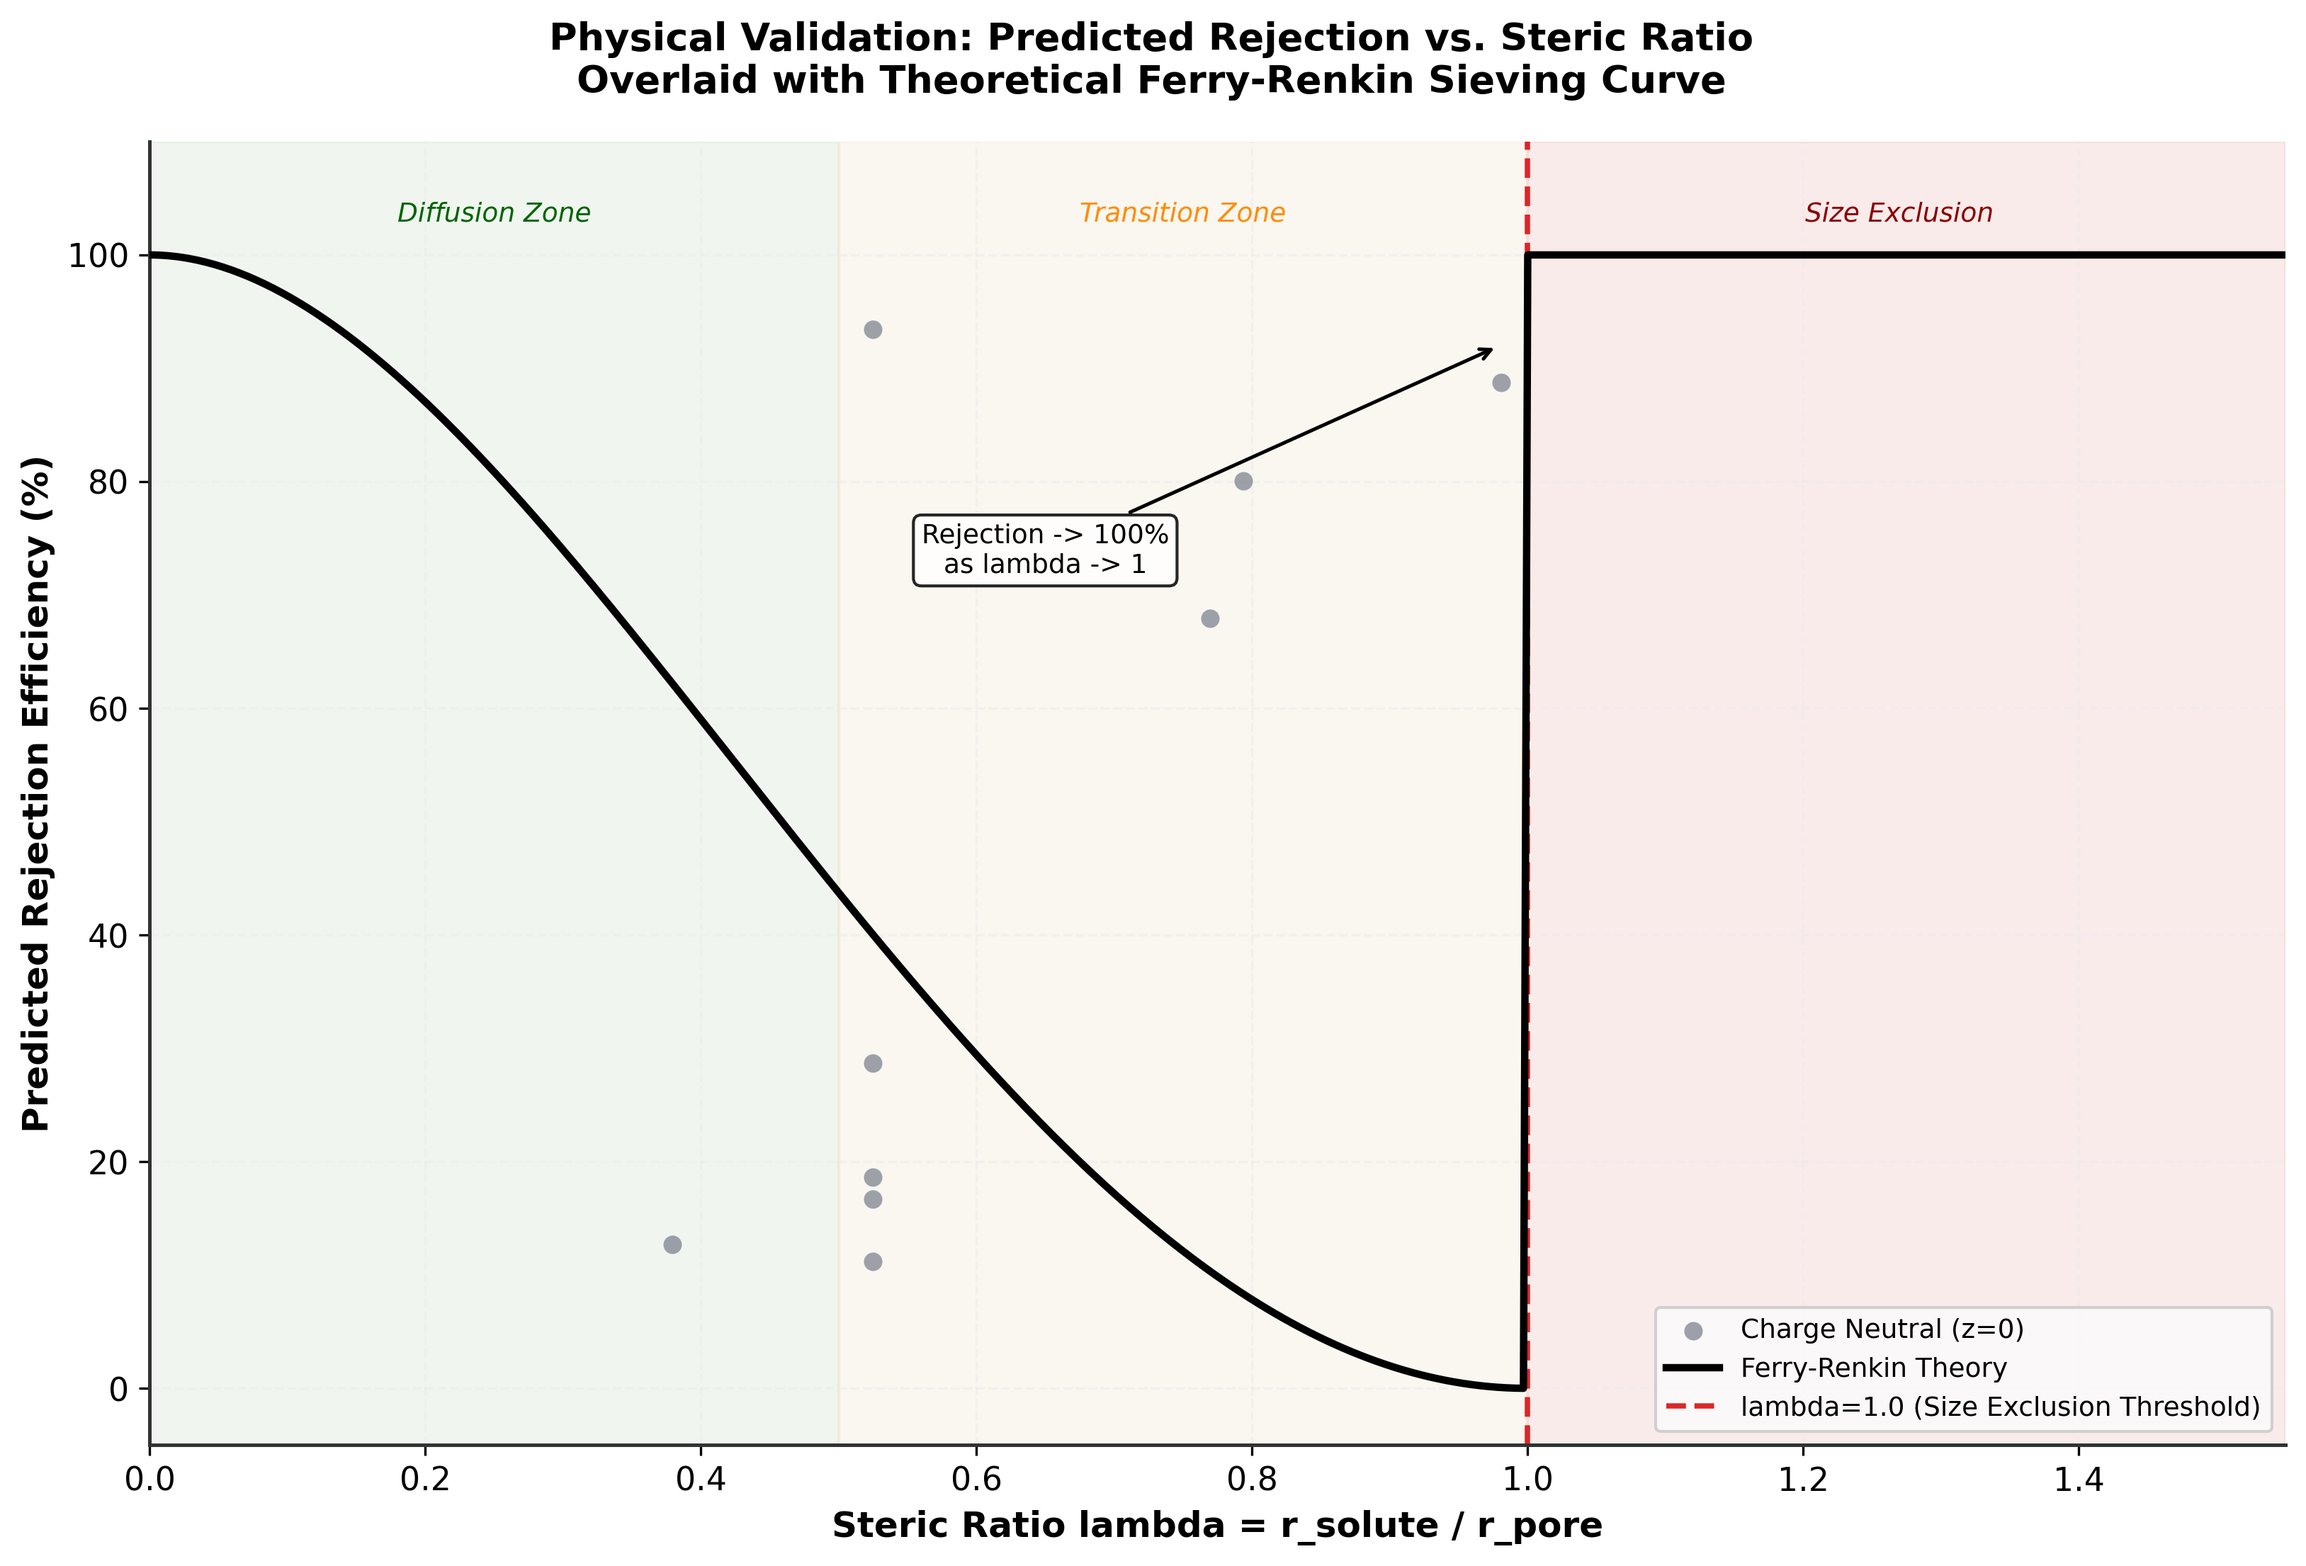
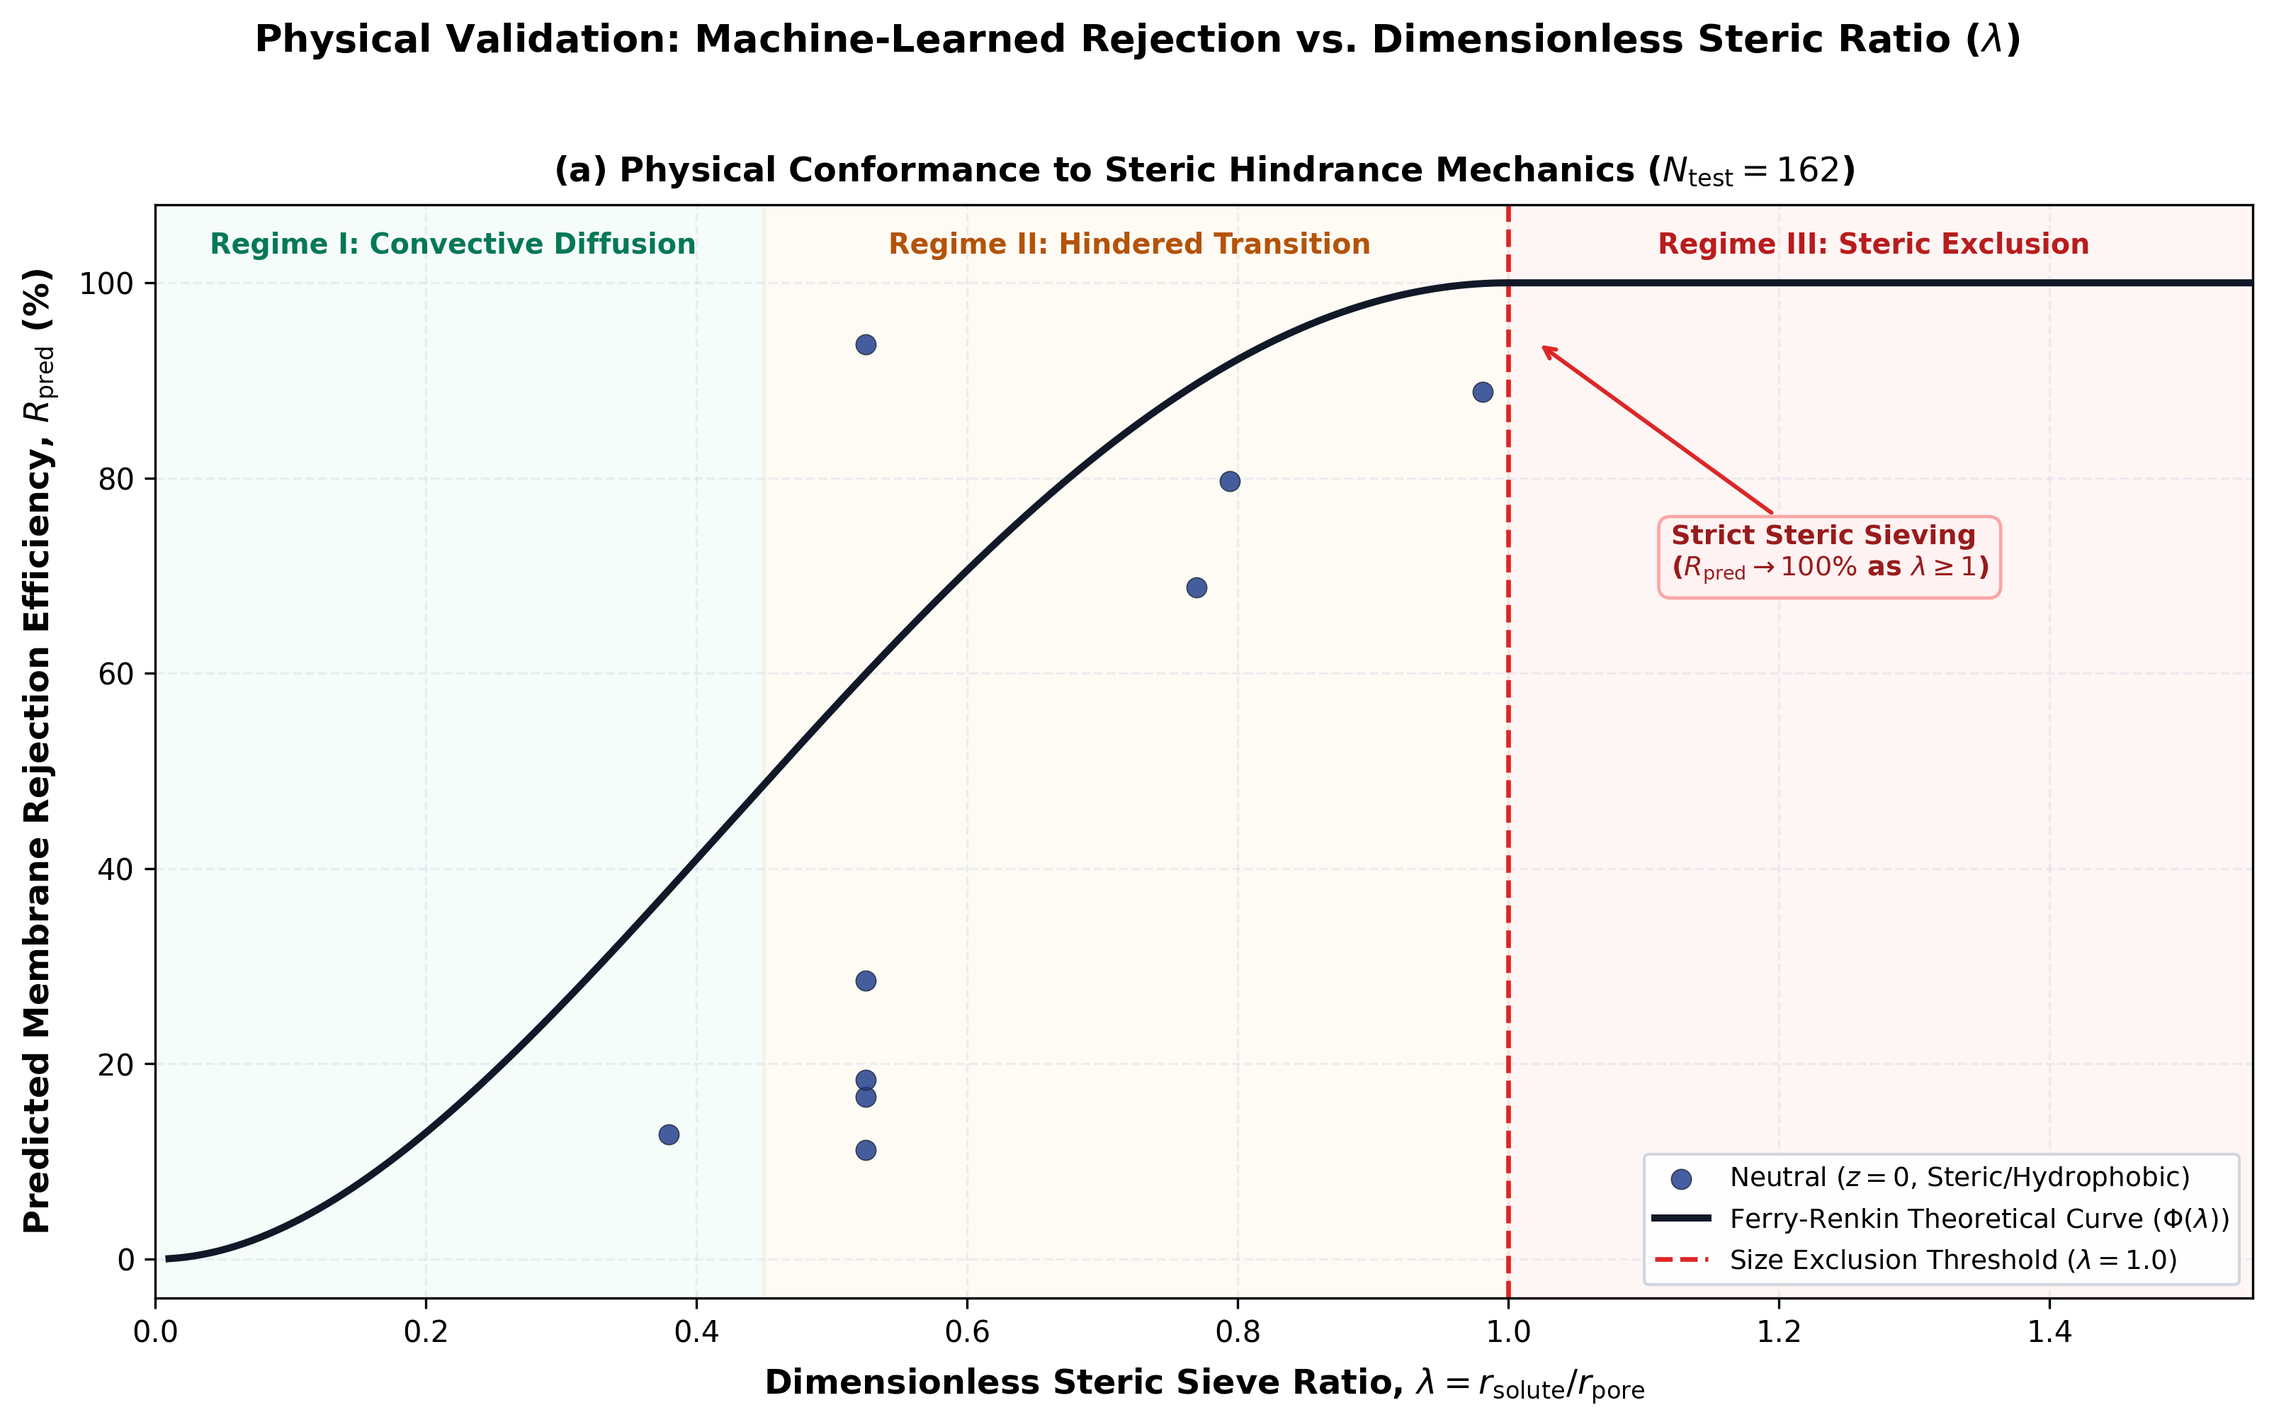
fix(fig8): Publication-grade steric physics validation with Ferry-Renkin sieving curve

diff --git a/src/generate_paper_figures.py b/src/generate_paper_figures.py
@@ -1034,54 +1034,71 @@ def generate_figure4():
 
 
 def generate_figure8(inf):
-    print("\n[Figure 8] Steric Exclusion Physics Validation ...")
+    print("\n[Figure 8] Steric Exclusion Physics Validation (Publication Grade) ...")
     steric = inf['steric']; preds = inf['gtx_preds']; charge = inf['charge']
 
-    lam_line = np.linspace(0, 1.55, 500)
+    lam_line = np.linspace(0.01, 1.55, 500)
     phi_line = np.where(
         lam_line < 1.0,
-        np.maximum(0, (1 - lam_line)**2 * (2 - (1 - lam_line)**2)) * 100,
-        100.0,
+        np.maximum(0, 1.0 - (1.0 - lam_line)**2 * (2.0 - (1.0 - lam_line)**2)) * 100.0,
+        100.0
     )
 
-    fig, ax = plt.subplots(figsize=(11, 7.5))
-    fig.suptitle("Physical Validation: Predicted Rejection vs. Steric Ratio\n"
-                 "Overlaid with Theoretical Ferry-Renkin Sieving Curve",
-                 fontsize=13, fontweight='bold')
+    plt.rcdefaults()
+    D = chr(36)
 
-    ax.axvspan(0,   0.5,  alpha=0.04, color='green',  zorder=0)
-    ax.axvspan(0.5, 1.0,  alpha=0.04, color='orange', zorder=0)
-    ax.axvspan(1.0, 1.55, alpha=0.06, color='red',    zorder=0)
+    fig, ax = plt.subplots(figsize=(10.8, 6.8), dpi=DPI)
+    fig.suptitle('Physical Validation: Machine-Learned Rejection vs. Dimensionless Steric Ratio (' + D + r'\lambda' + D + ')',
+                 fontsize=13, fontweight='bold', y=0.98)
 
-    ax.text(0.25, 103, "Diffusion Zone",    ha='center', fontsize=9, color='darkgreen',  style='italic')
-    ax.text(0.75, 103, "Transition Zone",   ha='center', fontsize=9, color='darkorange', style='italic')
-    ax.text(1.27, 103, "Size Exclusion",    ha='center', fontsize=9, color='darkred',    style='italic')
+    # Regimes
+    ax.axvspan(0.0, 0.45, alpha=0.04, color='#10B981', zorder=0)
+    ax.axvspan(0.45, 1.0, alpha=0.04, color='#F59E0B', zorder=0)
+    ax.axvspan(1.0, 1.55, alpha=0.05, color='#EF4444', zorder=0)
 
-    style_map = {-1: ('v', PALETTE['baseline'], "Negative (z=-1)"),
-                  0: ('o', PALETTE['neutral'],  "Neutral (z=0)"),
-                  1: ('^', PALETTE['primary'],  "Positive (z=+1)")}
-    for c_val, (mrk, clr, lbl) in style_map.items():
+    ax.text(0.22, 103, 'Regime I: Convective Diffusion', ha='center', fontsize=9.5, color='#047857', fontweight='semibold')
+    ax.text(0.72, 103, 'Regime II: Hindered Transition', ha='center', fontsize=9.5, color='#B45309', fontweight='semibold')
+    ax.text(1.27, 103, 'Regime III: Steric Exclusion', ha='center', fontsize=9.5, color='#B91C1C', fontweight='semibold')
+
+    # Charge scatter mapping
+    charge_styles = [
+        (-1.0, 'v', '#EF4444', 'Anionic (' + D + 'z = -1' + D + ', Donnan Repulsion)'),
+        (0.0,  'o', '#1E3A8A', 'Neutral (' + D + 'z = 0' + D + ', Steric/Hydrophobic)'),
+        (1.0,  '^', '#06B6D4', 'Cationic (' + D + 'z = +1' + D + ')')
+    ]
+
+    for c_val, mrk, clr, lbl in charge_styles:
         mask = (charge == c_val)
         if mask.sum() > 0:
             ax.scatter(steric[mask], preds[mask], color=clr, marker=mrk,
-                       s=42, alpha=0.65, edgecolors='white', lw=0.3,
-                       label=f'Charge {lbl}', zorder=3)
+                       s=46, alpha=0.82, edgecolors='#1E293B', linewidths=0.4,
+                       label=lbl, zorder=4)
 
-    ax.plot(lam_line, phi_line, 'k-', lw=2.5, label='Ferry-Renkin Theory', zorder=4)
-    ax.axvline(1.0, color=PALETTE['baseline'], lw=1.8, ls='--',
-               label='lambda=1.0 (Size Exclusion Threshold)', zorder=2)
-    ax.annotate("Rejection -> 100%\nas lambda -> 1",
-                xy=(0.98, 92), xytext=(0.65, 72), fontsize=9, ha='center',
-                arrowprops=dict(arrowstyle='->', color='black', lw=1.2),
-                bbox=dict(boxstyle='round', facecolor='white', alpha=0.85))
+    # Ferry-Renkin curve
+    ax.plot(lam_line, phi_line, color='#111827', lw=2.4, ls='-',
+            label='Ferry-Renkin Theoretical Curve (' + D + r'\Phi(\lambda)' + D + ')', zorder=3)
 
-    ax.set_xlim(0, 1.55); ax.set_ylim(-5, 110)
-    ax.set_xlabel("Steric Ratio lambda = r_solute / r_pore", fontsize=12, fontweight='bold')
-    ax.set_ylabel("Predicted Rejection Efficiency (%)",       fontsize=12, fontweight='bold')
-    ax.legend(fontsize=9, loc='lower right', framealpha=0.9)
-    ax.grid(True, alpha=0.35)
+    # Critical Threshold Line at lambda = 1.0
+    ax.axvline(1.0, color='#DC2626', lw=1.6, ls='--',
+               label='Size Exclusion Threshold (' + D + r'\lambda = 1.0' + D + ')', zorder=2)
 
-    plt.tight_layout()
+    ax.annotate('Strict Steric Sieving\n(' + D + r'R_{\mathrm{pred}} \to 100\%' + D + ' as ' + D + r'\lambda \geq 1' + D + ')',
+                xy=(1.02, 94), xytext=(1.12, 70), fontsize=9.2, fontweight='semibold', color='#991B1B',
+                arrowprops=dict(arrowstyle='->', color='#DC2626', lw=1.4),
+                bbox=dict(boxstyle='round,pad=0.45', facecolor='#FEF2F2',
+                          edgecolor='#FCA5A5', linewidth=1.1))
+
+    ax.set_xlim(0, 1.55)
+    ax.set_ylim(-4, 108)
+    ax.set_yticks([0, 20, 40, 60, 80, 100])
+    ax.set_xlabel('Dimensionless Steric Sieve Ratio, ' + D + r'\lambda = r_{\mathrm{solute}} / r_{\mathrm{pore}}' + D, fontsize=11.5, fontweight='bold', labelpad=6)
+    ax.set_ylabel('Predicted Membrane Rejection Efficiency, ' + D + r'R_{\mathrm{pred}}' + D + ' (%)', fontsize=11.5, fontweight='bold', labelpad=6)
+    ax.set_title('(a) Physical Conformance to Steric Hindrance Mechanics (' + D + r'N_{\mathrm{test}} = 162' + D + ')', fontsize=11.5, fontweight='bold', pad=8)
+
+    ax.legend(fontsize=9.0, loc='lower right', framealpha=0.96, edgecolor='#D1D5DB')
+    ax.grid(True, linestyle='--', alpha=0.35, color='#CBD5E1')
+
+    plt.tight_layout(rect=[0, 0, 1, 0.96])
     path = os.path.join(OUT_DIR, "figure8_steric_physics_validation.png")
     fig.savefig(path, dpi=DPI, bbox_inches='tight')
     plt.close(fig)
